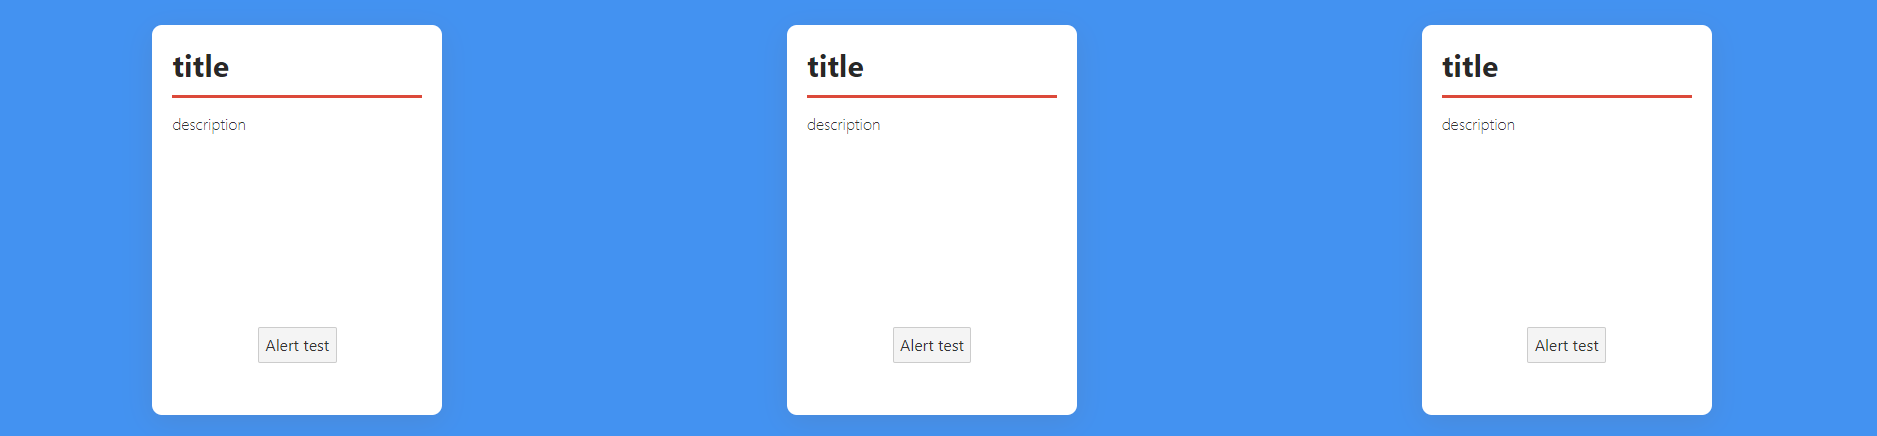
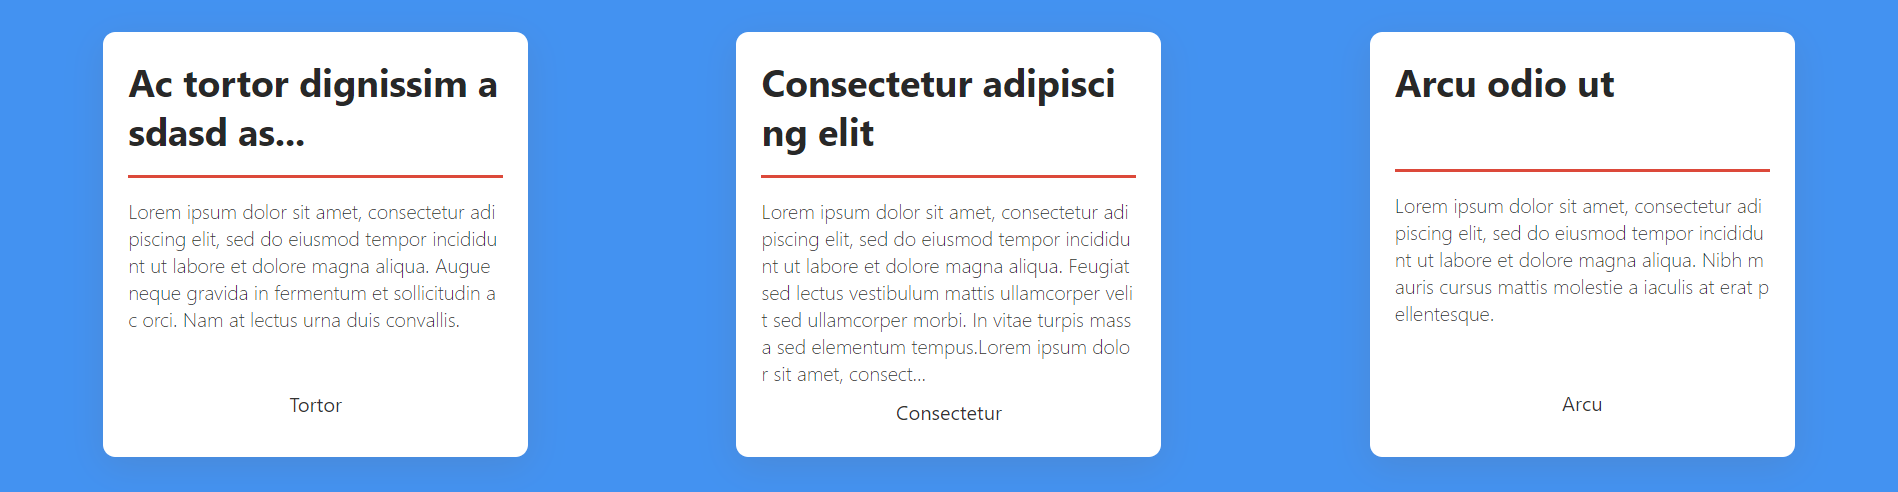
Update list item and list. Update presentation image.

diff --git a/src/docure-list-item.svelte b/src/docure-list-item.svelte
@@ -1,18 +1,18 @@
 <svelte:options tag="docure-list-item" />
 
 <script>
-  import { onMount } from "svelte";
+  import { onMount } from 'svelte';
 
-  export let title = "";
-  export let description = "";
+  export let title = '';
+  export let description = '';
 
   onMount(() => {
     if (title.length > 30) {
       title = `${title.slice(0, 29)}...`;
     }
 
-    if (description.length > 330) {
-      description = `${description.slice(0, 329)}...`;
+    if (description.length > 280) {
+      description = `${description.slice(0, 280)}...`;
     }
   });
 </script>
@@ -26,9 +26,17 @@
 </div>
 
 <style>
+  :host {
+    flex: 33.33%;
+    display: flex;
+    justify-content: center;
+    align-items: center;
+    background: #4392f1;
+  }
+
   .docure-list-item {
-    height: 350px;
-    width: 250px;
+    height: 300px;
+    width: 300px;
     display: flex;
     flex-direction: column;
     justify-self: center;
@@ -39,7 +47,7 @@
   }
 
   .docure-list-item h2 {
-    height: 20%;
+    height: 30%;
     margin: 0px;
     padding: 0px 0px 15px 0px;
     word-break: break-all;
@@ -49,7 +57,7 @@
   }
 
   .docure-list-item p {
-    height: 70%;
+    height: 60%;
     margin: 15px 0px 0px 0px;
     font-weight: 300;
     font-size: 16px;

diff --git a/src/docure-list.svelte b/src/docure-list.svelte
@@ -1,28 +1,14 @@
 <svelte:options tag="docure-list" />
 
-<script>
-  export let background = "#4392f1";
-
-  const style = `background-color: ${background};`;
-</script>
-
-<div class="docure-list" {style}>
-  <slot>
-    <docure-list-item title="test" description="test">
-      <button on:click={() => alert("test")}>Alert test</button>
-    </docure-list-item>
-  </slot>
-</div>
+<slot />
 
 <style>
-  div {
-    display: grid;
-    grid-template-columns: auto auto auto;
-    justify-content: space-around;
+  :host {
+    display: flex;
+    flex-wrap: wrap;
+    justify-content: space-between;
     margin: 0;
-    padding: 0;
-    height: 440px;
-    justify-self: center;
-    align-items: center;
+    padding: 15px 0px;
+    height: 400px;
   }
 </style>
